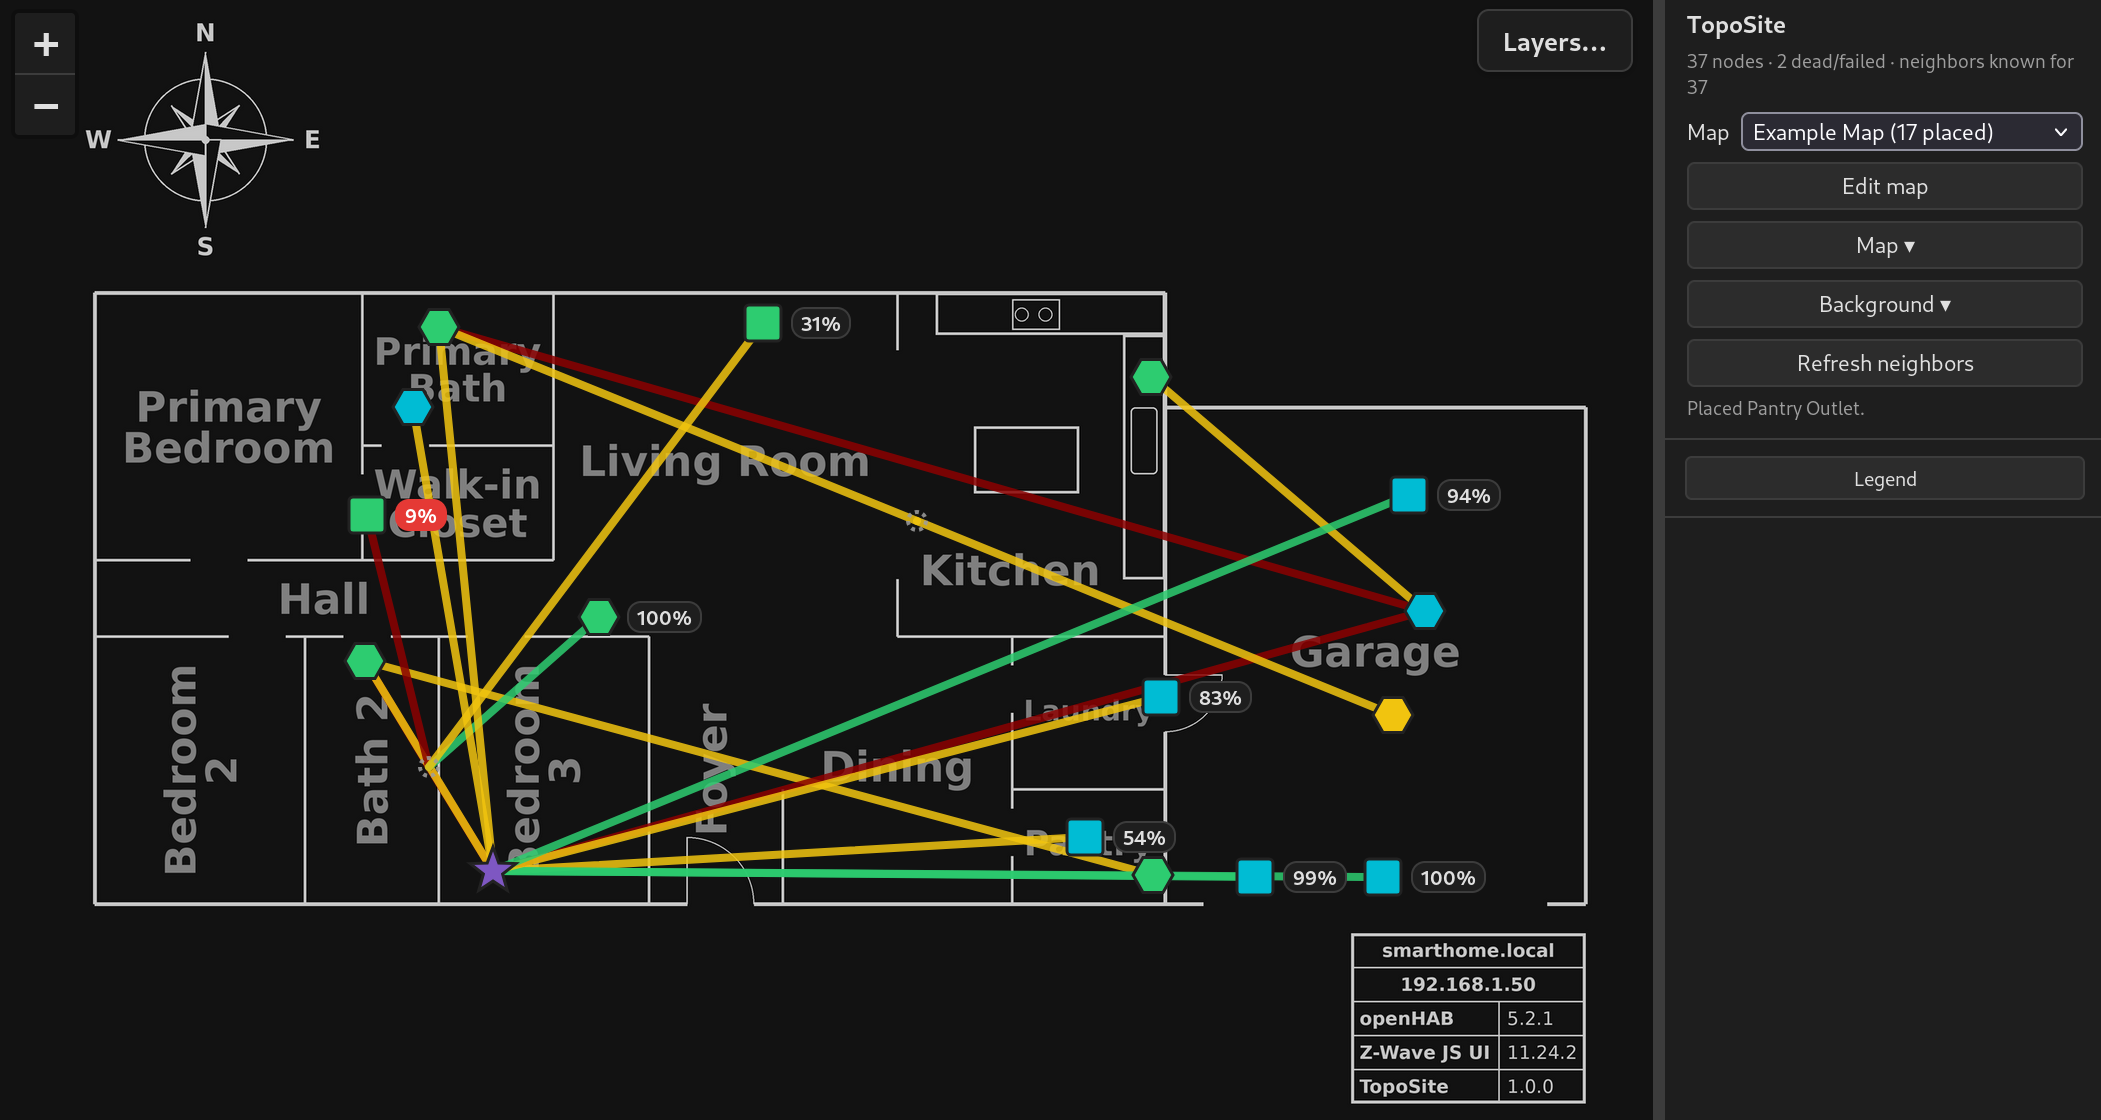
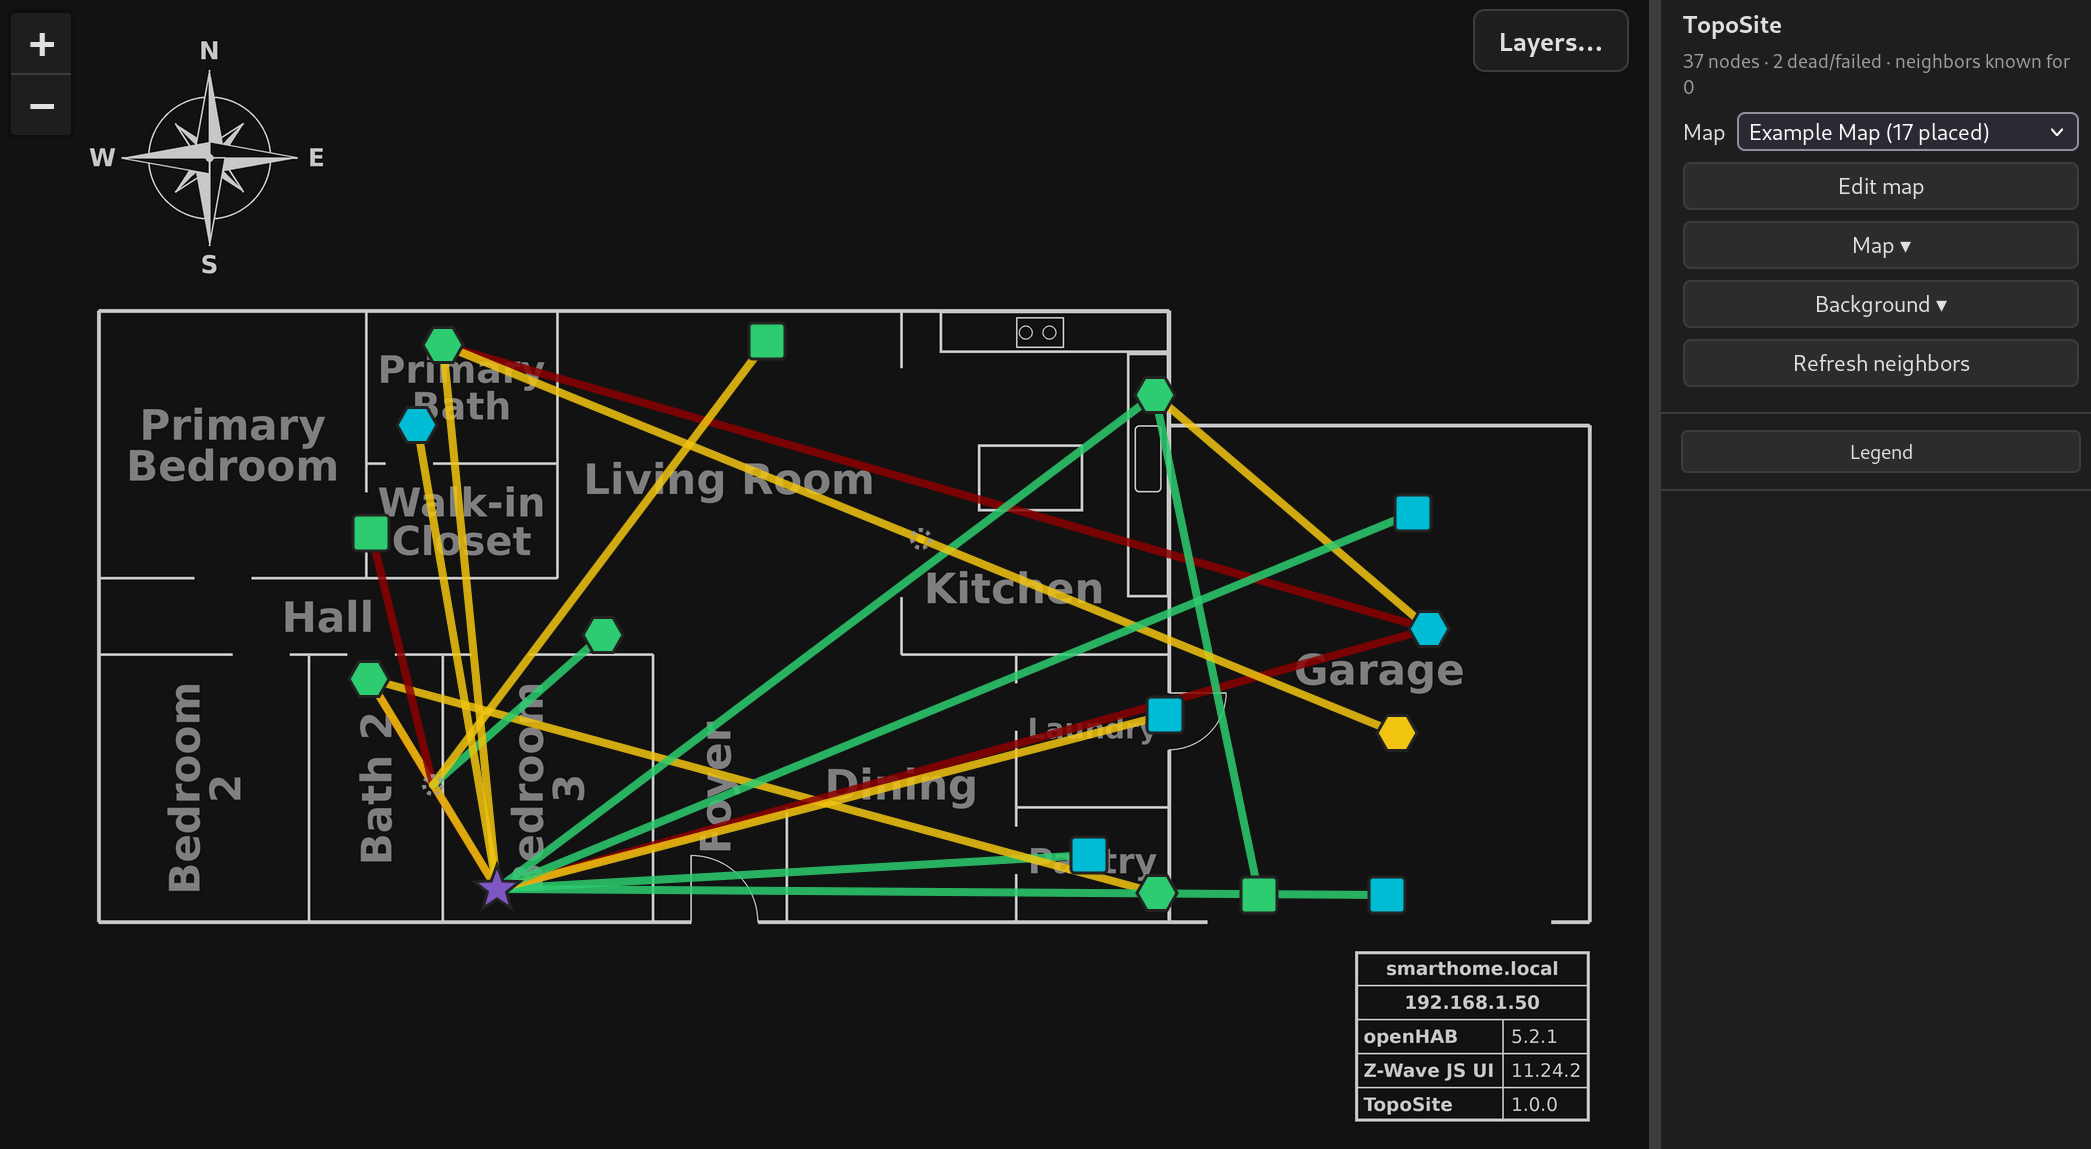
Update README: routes-only screenshot first, node names screenshot after — TopoSite v0.2.0 (SN 00002)

Changed region(s): [[0.0311, 0.0, 0.9947, 1.0], [0.0, 0.0312, 0.0311, 0.0938], [0.9947, 0.375, 1.0, 0.4062]]

diff --git a/README.md b/README.md
@@ -48,17 +48,21 @@ room needs a repeater.
 
 All taken on an example map in Z-Wave JS UI's dark theme.
 
-**Routes and node names.** Nodes placed on a floor plan, with each node's last
-working route back to the controller (the purple star, here named *wopr3*).
-Node shape shows power: hexagon for mains (repeats for the mesh), square for
-battery. Node colour is the hop count (cyan = direct, green = 2 hops, yellow =
-3), and line colour is the data rate (green 100 kbit/s, yellow 40 kbit/s, dark
-red 9.6 kbit/s), matching Z-Wave JS UI's own Network Graph. The two faint grey
+**Routes.** Nodes placed on a floor plan, with each node's last working route
+back to the controller (the purple star). Node shape shows power: hexagon for
+mains (repeats for the mesh), square for battery. Node colour is the hop count
+(cyan = direct, green = 2 hops, yellow = 3), and line colour is the data rate
+(green 100 kbit/s, yellow 40 kbit/s, dark red 9.6 kbit/s), matching Z-Wave JS
+UI's own Network Graph.
+
+![Routes on a floor plan](images/TopoSite-Routes.png)
+
+**Node names.** The *Node names* layer labels every node. The two faint grey
 dots with grey names (*Workshop Attic Lights*, *GeekCave_Lights*) are nodes
 hidden on this map that still repeat for nodes shown on it, so their routes
 stay traceable.
 
-![Routes and node names on a floor plan](images/TopoSite-Routes_Names.png)
+![Routes with node names](images/TopoSite-Routes_Names.png)
 
 **Routes and neighbors.** The *Neighbors* layer adds a thin grey line for every
 entry in the nodes' neighbor tables, so you can see which devices can hear each
